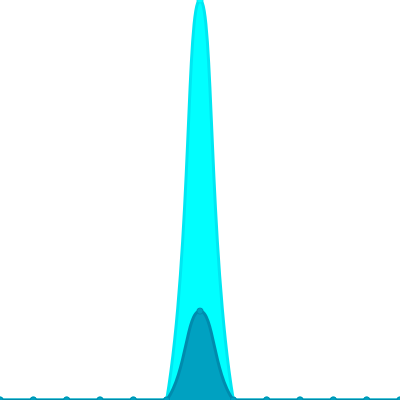
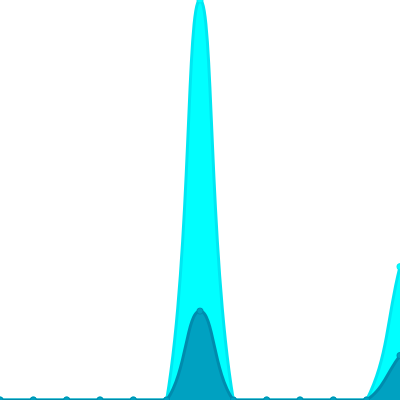
Update views

Changed region(s): [[0.9, 0.66, 1.0, 1.0]]

diff --git a/readme/431478118/year.md b/readme/431478118/year.md
@@ -23,10 +23,10 @@
 			<code>2024/7/1</code>
 		</td>
 		<td>
-			<code>0</code>
+			<code>1</code>
 		</td>
 		<td>
-			<code>0</code>
+			<code>3</code>
 		</td>
 	</tr>
 	<tr>
@@ -164,7 +164,7 @@
 </table>
 
 </details>
-<small><i>Last updated on 2024/7/28 6:09 AM UTC</i></small>
+<small><i>Last updated on 2024/7/28 12:11 PM UTC</i></small>
 
 ## ✂Copy and 📋 Paste
 ### SVG Badge

diff --git a/README.md b/README.md
@@ -53,7 +53,7 @@ The project created and maintained by [gayanvoice](https://github.com/gayanvoice
 	</tr>
 </table>
 
-<small><i>Last updated on 2024/7/28 6:10 AM UTC</i></small>
+<small><i>Last updated on 2024/7/28 12:11 PM UTC</i></small>
 
 ## ✂Copy and 📋 Paste
 ### Total Views Badge

diff --git a/readme/431592046/year.md b/readme/431592046/year.md
@@ -164,7 +164,7 @@
 </table>
 
 </details>
-<small><i>Last updated on 2024/7/28 6:10 AM UTC</i></small>
+<small><i>Last updated on 2024/7/28 12:11 PM UTC</i></small>
 
 ## ✂Copy and 📋 Paste
 ### SVG Badge
